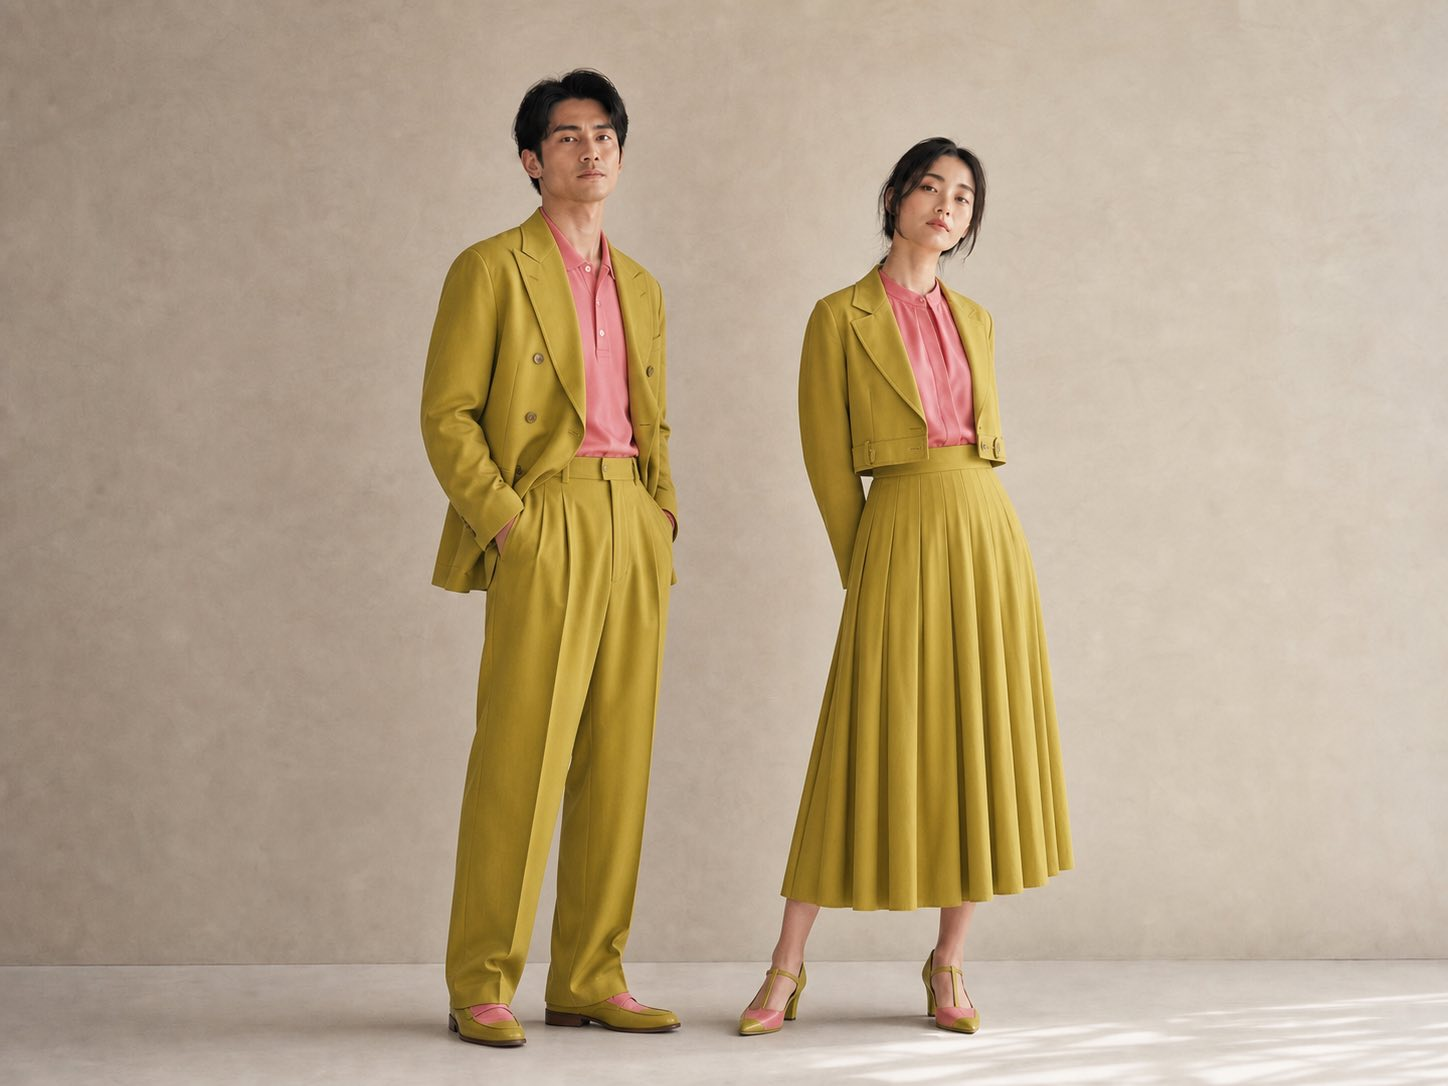
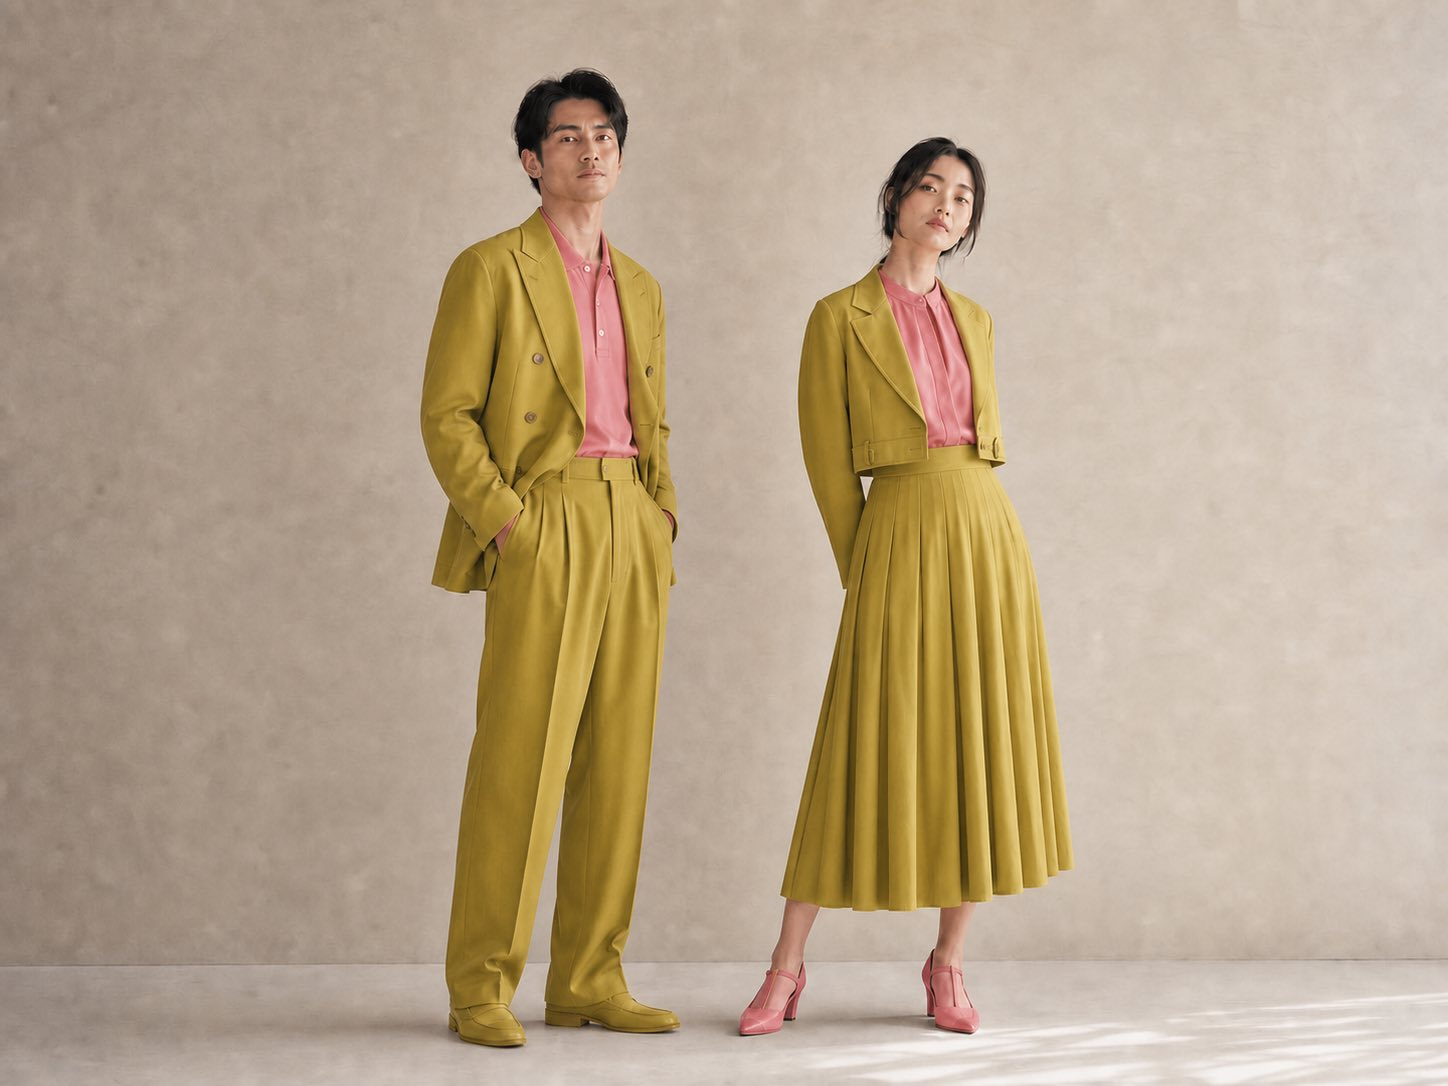
Move history page and correct outfit footwear

diff --git a/src/App.jsx b/src/App.jsx
@@ -106,6 +106,100 @@ function PaletteCard({ p, onCopy, copied, image }) {
   );
 }
 
+function HeritagePage() {
+  return (
+    <>
+      <header className="site-header">
+        <div className="brand">
+          <a className="brand-name brand-link" href="/">COLORIRO</a>
+          <div className="brand-tag">Colour combinations<br />for getting dressed</div>
+        </div>
+        <nav className="header-links" aria-label="History page">
+          <a href="/">Palettes</a>
+          <a href="/#today">Today&apos;s Pick</a>
+          <a href="/#book">The Book</a>
+          <a href="/#about">About</a>
+        </nav>
+      </header>
+
+      <main className="heritage-page">
+        <section className="heritage" aria-labelledby="heritage-title">
+          <div className="heritage-inner">
+            <a className="heritage-back" href="/">← Back to the colour combinations</a>
+            <div className="heritage-lead">
+              <div>
+                <p className="heritage-kicker">The source · 和田三造</p>
+                <h1 className="heritage-title" id="heritage-title">
+                  A painter who made colour practical.
+                </h1>
+                <p className="heritage-copy">
+                  Sanzo Wada (1883–1967) worked across painting, teaching, fashion, kimono,
+                  theatre and film. His colour research treated combinations as a usable
+                  design language. Published in 1933–34, <em>Haishoku Sōkan</em> gathered
+                  the 348 combinations that form Coloriro&apos;s foundation.
+                </p>
+              </div>
+              <div className="heritage-study" aria-hidden="true">
+                <p className="heritage-study-label">A study in relationship</p>
+                <div className="heritage-bars">
+                  <span className="heritage-bar" />
+                  <span className="heritage-bar" />
+                  <span className="heritage-bar" />
+                  <span className="heritage-bar" />
+                </div>
+                <div className="heritage-study-note">
+                  <span>Colour · proportion · rhythm</span>
+                  <span>昭和八年</span>
+                </div>
+              </div>
+            </div>
+
+            <div className="heritage-timeline" aria-label="Sanzo Wada timeline">
+              <article className="heritage-moment">
+                <span className="heritage-year">1883</span>
+                <h2>An interdisciplinary eye</h2>
+                <p>Wada was born in Japan and developed a practice spanning fine art, clothing, stage and screen.</p>
+              </article>
+              <article className="heritage-moment">
+                <span className="heritage-year">1927</span>
+                <h2>Colour as shared knowledge</h2>
+                <p>He founded the Japan Standard Color Association, now the Japan Color Research Institute.</p>
+              </article>
+              <article className="heritage-moment">
+                <span className="heritage-year">1933–34</span>
+                <h2><em>Haishoku Sōkan</em></h2>
+                <p>Wada published a pioneering Japanese collection of colour combinations: the source of these 348 plates.</p>
+              </article>
+              <article className="heritage-moment">
+                <span className="heritage-year">1954–58</span>
+                <h2>International recognition</h2>
+                <p>His costume work for <em>Gate of Hell</em> won an Academy Award; Japan later named him a Person of Cultural Merit.</p>
+              </article>
+            </div>
+
+            <div className="heritage-credit">
+              <div className="heritage-credit-block">
+                <h2>What belongs to Wada</h2>
+                <p>The original colour relationships, historic colour names and the 348 combinations themselves.</p>
+              </div>
+              <div className="heritage-credit-block">
+                <h2>What Coloriro adds</h2>
+                <p>Outfit photography, garment placement, suggested proportions, seasonal organization and the daily rotation. Digital HEX values approximate printed colour.</p>
+              </div>
+            </div>
+          </div>
+        </section>
+      </main>
+
+      <footer className="site-footer">
+        <strong>Coloriro presents Sanzo Wada&apos;s combinations as contemporary wardrobe studies.</strong>
+        <br />
+        <a href="/">Return to all 348 colour combinations</a>
+      </footer>
+    </>
+  );
+}
+
 export default function App() {
   const [season, setSeason] = useState("summer");
   const [copied, setCopied] = useState(null);
@@ -189,6 +283,7 @@ export default function App() {
         }
         .brand { display: flex; align-items: baseline; gap: 28px; }
         .brand-name { font-family: 'Playfair Display', Georgia, serif; font-size: clamp(28px, 3vw, 42px); letter-spacing: .18em; line-height: 1; }
+        .brand-link { color: inherit; text-decoration: none; }
         .brand-tag { max-width: 170px; font-size: 10px; line-height: 1.5; letter-spacing: .16em; text-transform: uppercase; }
         .header-links { display: flex; gap: 28px; font-size: 10px; letter-spacing: .13em; text-transform: uppercase; }
         .header-links a { color: inherit; text-decoration: none; }
@@ -225,6 +320,9 @@ export default function App() {
 
         .heritage { border-bottom: 1px solid var(--line); background: rgba(232,223,208,.45); scroll-margin-top: 88px; }
         .heritage-inner { max-width: 1400px; margin: 0 auto; padding: clamp(54px, 7vw, 96px) clamp(24px, 6vw, 90px); }
+        .heritage-page .heritage { min-height: calc(100vh - 90px); border-bottom: 0; }
+        .heritage-back { display: inline-block; margin-bottom: clamp(38px, 6vw, 72px); color: var(--muted); font-size: 9px; letter-spacing: .15em; text-decoration: none; text-transform: uppercase; }
+        .heritage-back:hover { color: var(--accent); }
         .heritage-lead { display: grid; grid-template-columns: minmax(0, 1.15fr) minmax(300px, .85fr); gap: clamp(42px, 7vw, 100px); align-items: center; }
         .heritage-kicker { margin: 0 0 14px; color: var(--accent); font-size: 9px; letter-spacing: .22em; text-transform: uppercase; }
         .heritage-title { max-width: 780px; margin: 0; font: clamp(36px, 4.6vw, 64px)/1.04 'Playfair Display', Georgia, serif; font-weight: 400; letter-spacing: -.02em; }
@@ -243,12 +341,12 @@ export default function App() {
         .heritage-timeline { display: grid; grid-template-columns: repeat(4, minmax(0, 1fr)); margin-top: clamp(45px, 6vw, 76px); border-top: 1px solid var(--line); border-left: 1px solid var(--line); }
         .heritage-moment { min-height: 190px; padding: 24px 22px; border-right: 1px solid var(--line); border-bottom: 1px solid var(--line); }
         .heritage-year { display: block; margin-bottom: 18px; color: var(--accent); font: 24px 'Playfair Display', Georgia, serif; }
-        .heritage-moment h3 { margin: 0 0 10px; font: 16px 'Playfair Display', Georgia, serif; font-weight: 500; }
+        .heritage-moment h2 { margin: 0 0 10px; font: 16px 'Playfair Display', Georgia, serif; font-weight: 500; }
         .heritage-moment p { margin: 0; color: var(--muted); font: 12px/1.65 Georgia, serif; }
         .heritage-credit { display: grid; grid-template-columns: 1fr 1fr; margin-top: 34px; border: 1px solid var(--line); background: rgba(243,238,228,.55); }
         .heritage-credit-block { padding: 25px 28px; }
         .heritage-credit-block + .heritage-credit-block { border-left: 1px solid var(--line); }
-        .heritage-credit h3 { margin: 0 0 10px; font-size: 9px; letter-spacing: .18em; text-transform: uppercase; }
+        .heritage-credit h2 { margin: 0 0 10px; font-size: 9px; letter-spacing: .18em; text-transform: uppercase; }
         .heritage-credit p { margin: 0; color: var(--muted); font: 13px/1.65 Georgia, serif; }
 
         .catalog { display: grid; grid-template-columns: 210px 1fr; max-width: 1600px; margin: 0 auto; }
@@ -364,13 +462,17 @@ export default function App() {
         }
       `}</style>
 
+      {window.location.pathname === "/history" ? (
+        <HeritagePage />
+      ) : (
+        <>
       <header className="site-header">
         <div className="brand">
           <div className="brand-name">COLORIRO</div>
           <div className="brand-tag">Colour combinations<br />for getting dressed</div>
         </div>
         <nav className="header-links" aria-label="Primary">
-          <a href="#heritage">Wada Sanzo</a>
+          <a href="/history">Wada Sanzo</a>
           <a href="#today">Today's Pick</a>
           <a href="#book">The Book</a>
           <a href="#about">About</a>
@@ -393,72 +495,6 @@ export default function App() {
           </div>
         </div>
         <div className="hero-art" aria-hidden="true" />
-      </section>
-
-      <section className="heritage" id="heritage" aria-labelledby="heritage-title">
-        <div className="heritage-inner">
-          <div className="heritage-lead">
-            <div>
-              <p className="heritage-kicker">The source · 和田三造</p>
-              <h2 className="heritage-title" id="heritage-title">
-                A painter who made colour practical.
-              </h2>
-              <p className="heritage-copy">
-                Sanzo Wada (1883–1967) worked across painting, teaching, fashion, kimono,
-                theatre and film. His colour research treated combinations as a usable
-                design language. Published in 1933–34, <em>Haishoku Sōkan</em> gathered
-                the 348 combinations that form Coloriro&apos;s foundation.
-              </p>
-            </div>
-            <div className="heritage-study" aria-hidden="true">
-              <p className="heritage-study-label">A study in relationship</p>
-              <div className="heritage-bars">
-                <span className="heritage-bar" />
-                <span className="heritage-bar" />
-                <span className="heritage-bar" />
-                <span className="heritage-bar" />
-              </div>
-              <div className="heritage-study-note">
-                <span>Colour · proportion · rhythm</span>
-                <span>昭和八年</span>
-              </div>
-            </div>
-          </div>
-
-          <div className="heritage-timeline" aria-label="Sanzo Wada timeline">
-            <article className="heritage-moment">
-              <span className="heritage-year">1883</span>
-              <h3>An interdisciplinary eye</h3>
-              <p>Wada was born in Japan and developed a practice spanning fine art, clothing, stage and screen.</p>
-            </article>
-            <article className="heritage-moment">
-              <span className="heritage-year">1927</span>
-              <h3>Colour as shared knowledge</h3>
-              <p>He founded the Japan Standard Color Association, now the Japan Color Research Institute.</p>
-            </article>
-            <article className="heritage-moment">
-              <span className="heritage-year">1933–34</span>
-              <h3><em>Haishoku Sōkan</em></h3>
-              <p>Wada published a pioneering Japanese collection of colour combinations: the source of these 348 plates.</p>
-            </article>
-            <article className="heritage-moment">
-              <span className="heritage-year">1954–58</span>
-              <h3>International recognition</h3>
-              <p>His costume work for <em>Gate of Hell</em> won an Academy Award; Japan later named him a Person of Cultural Merit.</p>
-            </article>
-          </div>
-
-          <div className="heritage-credit">
-            <div className="heritage-credit-block">
-              <h3>What belongs to Wada</h3>
-              <p>The original colour relationships, historic colour names and the 348 combinations themselves.</p>
-            </div>
-            <div className="heritage-credit-block">
-              <h3>What Coloriro adds</h3>
-              <p>Outfit photography, garment placement, suggested proportions, seasonal organization and the daily rotation. Digital HEX values approximate printed colour.</p>
-            </div>
-          </div>
-        </div>
       </section>
 
       <main className="catalog" id="book">
@@ -567,6 +603,8 @@ export default function App() {
         <br />
         Garment roles, proportions and season grouping are ours, not Wada's.
       </footer>
+        </>
+      )}
     </div>
   );
 }
